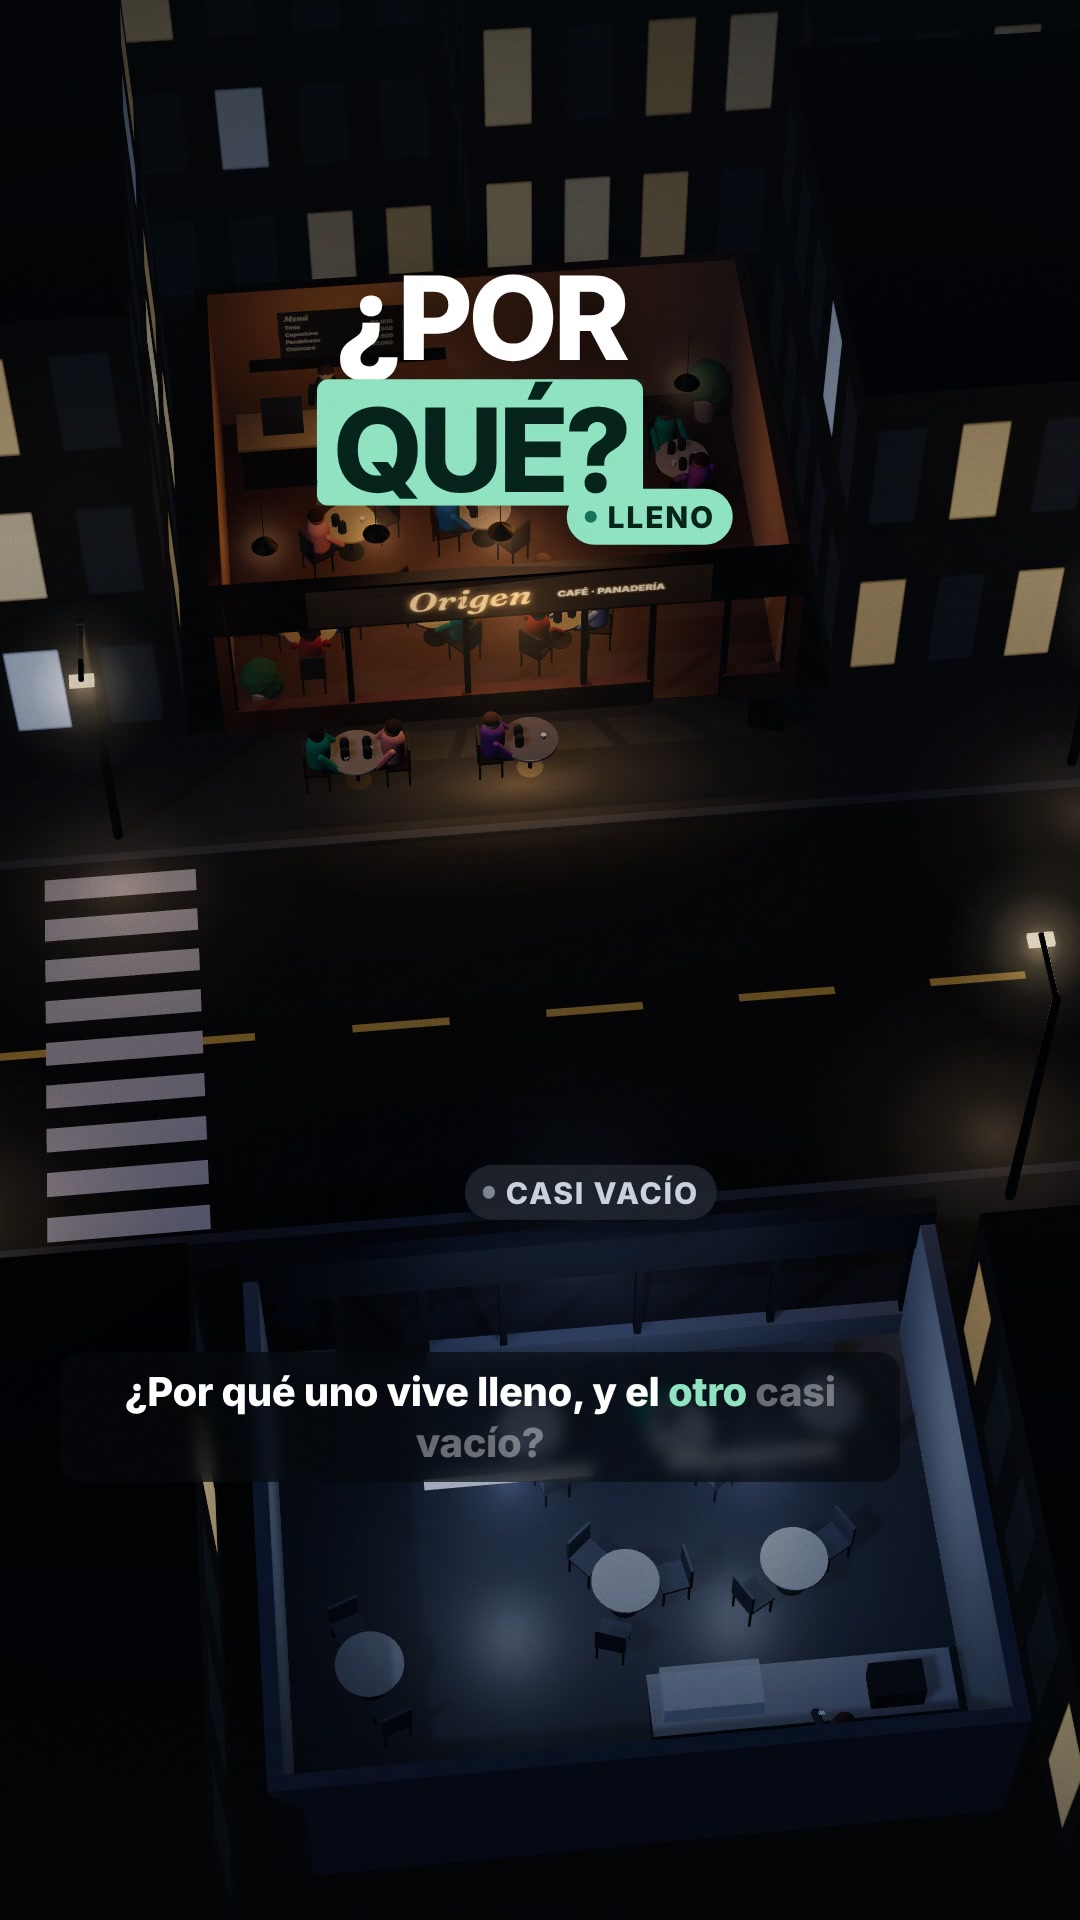
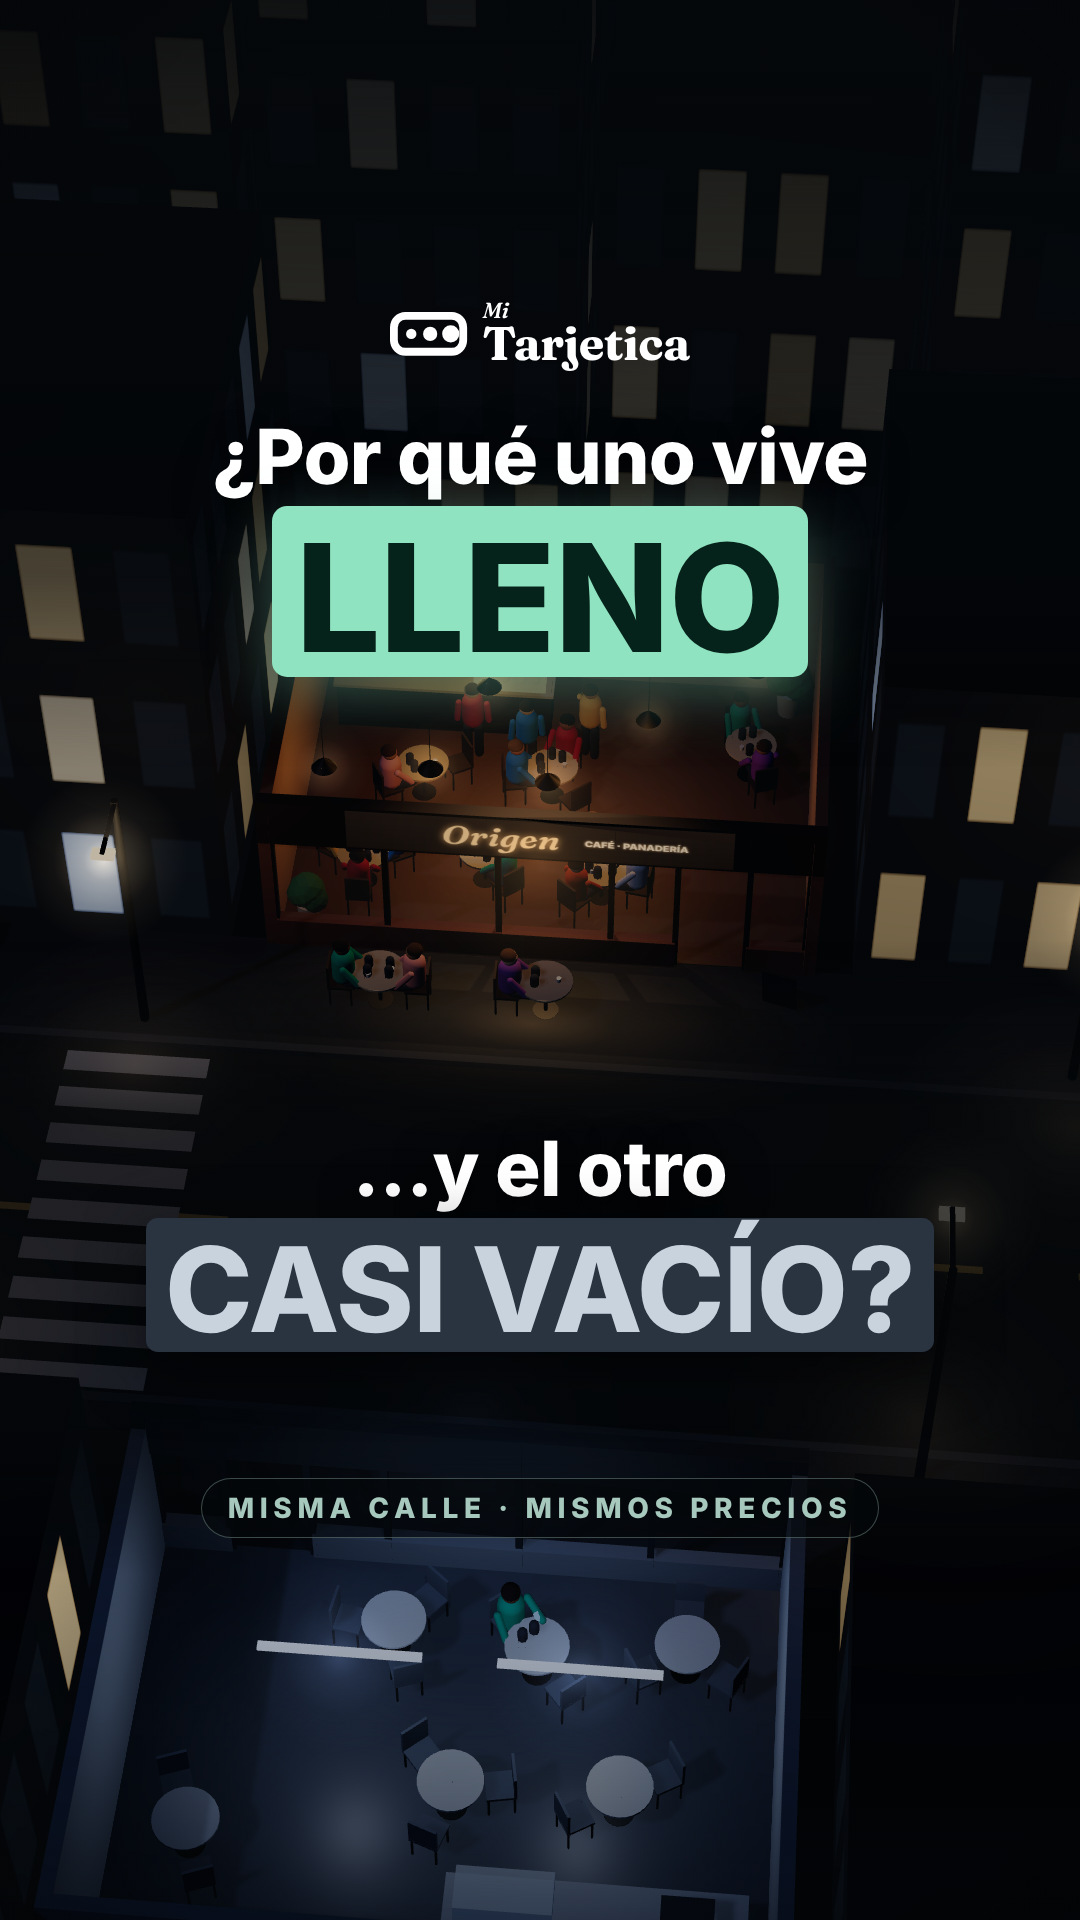
Dos locales: portada diseñada del reel
Still Portada (1080x1920) sobre la calle 3D: "¿Por qué uno vive LLENO…"
sobre Origen y "…y el otro CASI VACÍO?" sobre La Esquina, con logo;
exportada en JPG/PNG y recorte 4:5.

Claude-Session: https://claude.ai/code/session_01NppBQeaMzGkiMEcfsUkZi3

diff --git a/dos-locales/src/Portada.tsx b/dos-locales/src/Portada.tsx
@@ -1,0 +1,66 @@
+import React from "react";
+import { AbsoluteFill } from "remotion";
+import { brand } from "./brand";
+import { font } from "./fonts";
+import { Logo } from "./components/Logo";
+import { City } from "./three/City";
+import { Stage } from "./three/Stage";
+import type { Cam } from "./three/camera";
+
+/**
+ * Portada del reel (1080×1920). Fondo: la calle 3D con Origen lleno arriba y La Esquina abajo.
+ * El titular se parte en dos, junto a cada café. Lo importante cae en la franja central
+ * 1080×1350 (y 285–1635) que muestra la cuadrícula del perfil.
+ */
+const CAM: Cam = { pos: [3, 40, 30], target: [0, 0, -6], fov: 34 };
+
+const Mark: React.FC<{ children: React.ReactNode; bg: string; fg: string; glow: string }> = ({ children, bg, fg, glow }) => (
+  <span style={{ display: "inline-block", background: bg, color: fg, padding: "0.1em 0.16em 0.02em", borderRadius: "0.1em", textShadow: "none", boxShadow: `0 18px 60px ${glow}` }}>{children}</span>
+);
+
+export const Portada: React.FC = () => (
+  <AbsoluteFill style={{ background: brand.colors.bg }}>
+    <Stage cam={CAM}>
+      <City valentina={{ pos: [0, 0, 0], rot: 0, visible: false }} />
+    </Stage>
+    {/* oscurece arriba y en la calle para que el texto respire */}
+    <AbsoluteFill
+      style={{
+        background: `linear-gradient(180deg, rgba(5,8,11,0.92) 0%, rgba(5,8,11,0.55) 30%, rgba(5,8,11,0) 40%, rgba(5,8,11,0) 49%, rgba(5,8,11,0.7) 58%, rgba(5,8,11,0.7) 74%, rgba(5,8,11,0.15) 82%, rgba(5,8,11,0.55) 100%)`,
+      }}
+    />
+    <AbsoluteFill style={{ background: "radial-gradient(ellipse 120% 90% at 50% 50%, transparent 55%, rgba(0,0,0,0.55) 100%)" }} />
+
+    {/* logo */}
+    <div style={{ position: "absolute", left: 0, right: 0, top: 300, display: "flex", justifyContent: "center" }}>
+      <Logo height={84} color={brand.colors.white} />
+    </div>
+
+    {/* parte 1, sobre Origen */}
+    <div style={{ position: "absolute", left: 0, right: 0, top: 418, textAlign: "center", fontFamily: font, fontWeight: 800, color: brand.colors.white, letterSpacing: "-0.04em", lineHeight: 1.02, textShadow: "0 10px 40px rgba(0,0,0,0.7)" }}>
+      <div style={{ fontSize: 76 }}>¿Por qué uno vive</div>
+      <div style={{ fontSize: 150, marginTop: 10 }}>
+        <Mark bg={brand.colors.highlight} fg={brand.colors.ink} glow="rgba(143,227,192,0.35)">
+          LLENO
+        </Mark>
+      </div>
+    </div>
+
+    {/* parte 2, en la calle, sobre La Esquina */}
+    <div style={{ position: "absolute", left: 0, right: 0, top: 1130, textAlign: "center", fontFamily: font, fontWeight: 800, color: brand.colors.white, letterSpacing: "-0.04em", lineHeight: 1.02, textShadow: "0 10px 40px rgba(0,0,0,0.7)" }}>
+      <div style={{ fontSize: 76 }}>…y el otro</div>
+      <div style={{ fontSize: 118, marginTop: 10 }}>
+        <Mark bg="#2A3440" fg="#C9D3DE" glow="rgba(0,0,0,0.5)">
+          CASI VACÍO?
+        </Mark>
+      </div>
+    </div>
+
+    {/* rótulo inferior */}
+    <div style={{ position: "absolute", left: 0, right: 0, top: 1478, display: "flex", justifyContent: "center" }}>
+      <div style={{ fontFamily: font, fontWeight: 800, fontSize: 28, letterSpacing: "0.2em", color: brand.colors.soft, padding: "12px 26px", borderRadius: 999, background: "rgba(5,8,11,0.65)", border: "1.5px solid rgba(167,201,189,0.35)" }}>
+        MISMA CALLE · MISMOS PRECIOS
+      </div>
+    </div>
+  </AbsoluteFill>
+);

diff --git a/dos-locales/src/Root.tsx b/dos-locales/src/Root.tsx
@@ -1,6 +1,7 @@
 import React from "react";
 import { Composition, Still } from "remotion";
 import { DosLocales } from "./DosLocales";
+import { Portada } from "./Portada";
 import { Preview3D } from "./Preview3D";
 import { DURATION_SEC, FPS } from "./timeline";
 import "./fonts";
@@ -8,6 +9,7 @@ import "./fonts";
 export const RemotionRoot: React.FC = () => (
   <>
     <Composition id="DosLocales" component={DosLocales} durationInFrames={Math.round(DURATION_SEC * FPS)} fps={FPS} width={1080} height={1920} />
+    <Still id="Portada" component={Portada} width={1080} height={1920} />
     <Still id="Preview3D" component={Preview3D} width={1080} height={1920} defaultProps={{ cam: { pos: [6, 22, 22], target: [0, 0, -1], fov: 38 } }} />
   </>
 );

diff --git a/PUBLICACIONES-MI-TARJETICA/15-video-dos-locales/LEEME.md b/PUBLICACIONES-MI-TARJETICA/15-video-dos-locales/LEEME.md
@@ -2,7 +2,10 @@
 
 `dos-locales-vertical.mp4` · 1080×1920 · 53 s · escenas 3D, voz de ElevenLabs ("Lina", colombiana),
 titulares, subtítulos palabra por palabra y música (audio masterizado para redes).
-`portada.jpg` · fotograma "¿POR QUÉ?" con los dos cafés, para la portada del reel.
+`portada.jpg` / `portada.png` · portada diseñada (1080×1920): la calle 3D con "¿Por qué uno vive LLENO…"
+sobre Origen y "…y el otro CASI VACÍO?" sobre La Esquina, logo arriba; lo importante va en la franja
+central que muestra la cuadrícula del perfil.
+`portada-4x5-feed.jpg` · el mismo diseño en 1080×1350, por si la publicas también como imagen.
 
 Para Reels y TikTok. Dos cafés frente a frente (Origen y La Esquina, negocios de ejemplo): misma
 calle, productos y precios parecidos; la diferencia es que uno le da al cliente su tarjeta de sellos

diff --git a/dos-locales/README.md b/dos-locales/README.md
@@ -31,6 +31,7 @@ npm install
 npx remotion studio
 npx remotion render DosLocales out/dos-locales.mp4 --codec=h264 --crf=16 --gl=angle --timeout=300000 --concurrency=3
 bash scripts/master-audio.sh out/dos-locales.mp4
+npx remotion still Portada out/portada.png --gl=angle --timeout=300000   # portada (src/Portada.tsx)
 ```
 Si solo cambias audio (volúmenes, efectos, voz con la misma duración), no hace falta volver a
 renderizar el 3D: `python3 scripts/mix-audio.py out/audio-mezcla.wav` y luego
